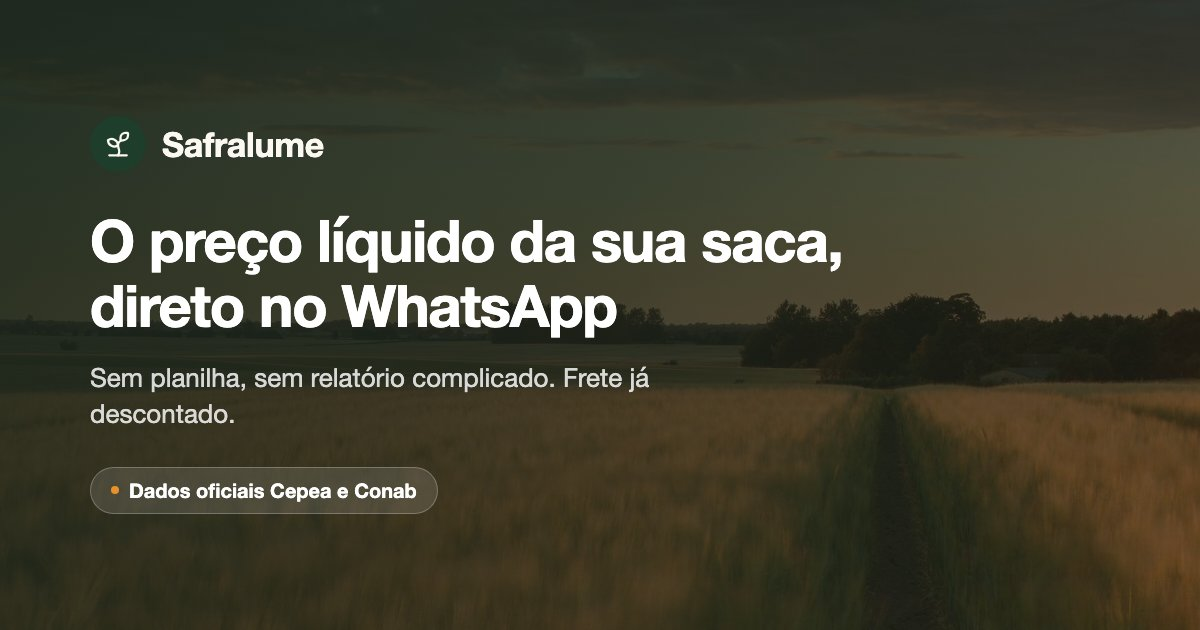
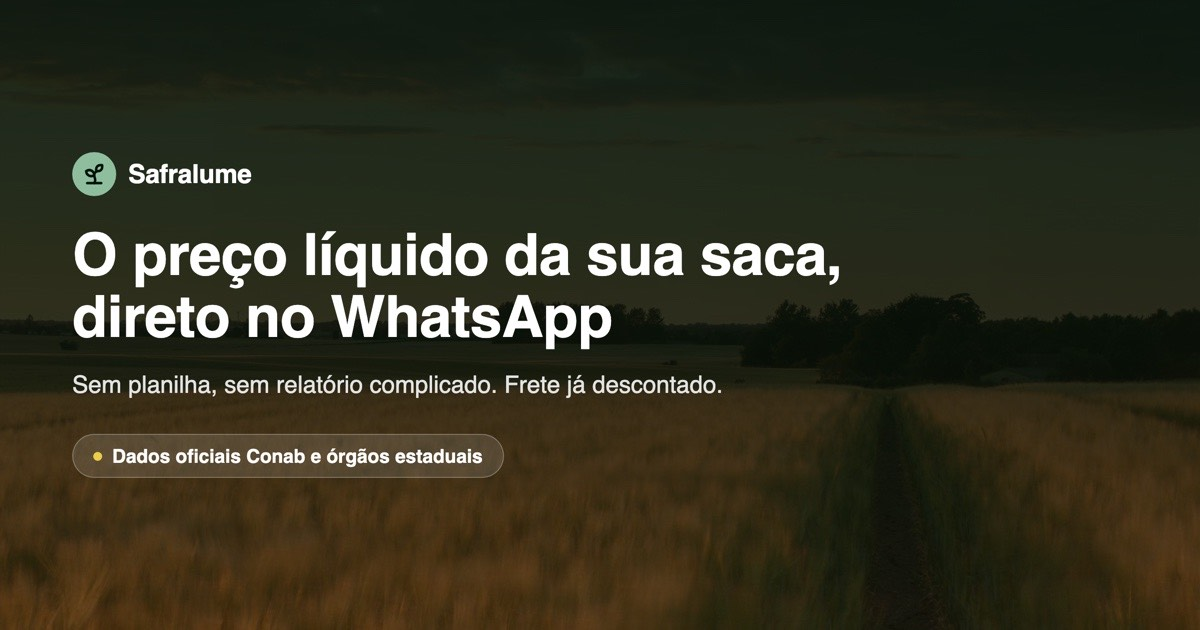
Melhora SEO: refaz og-image, adiciona schema de preço real
Achado auditando pra "ótimo SEO": a imagem de compartilhamento
(og-image.jpg — a que aparece quando o link é mandado no WhatsApp/
Twitter/etc) tinha o texto "Dados oficiais Cepea e Conab" desenhado
direto nos pixels — Cepea nunca foi integrada de verdade. Refeita do
zero (mesmo estilo visual, mesma foto), com o texto corrigido pra
"Conab e órgãos estaduais".

Adiciona um segundo JSON-LD (SoftwareApplication + Offer por plano)
com preço real dos 3 planos, puxado direto de pricingPlans em
config/site.ts — nunca hardcoded solto, pra nunca divergir do preço
real exibido na seção de Preços. Pode habilitar o Google mostrar
faixa de preço no resultado de busca.

diff --git a/src/routes/__root.tsx b/src/routes/__root.tsx
@@ -13,6 +13,7 @@ import appCss from "../styles.css?url";
 import { reportLovableError } from "../lib/lovable-error-reporting";
 import { AuthProvider } from "../lib/auth";
 import { Toaster } from "../components/ui/sonner";
+import { pricingPlans } from "../config/site";
 
 function NotFoundComponent() {
   return (
@@ -135,6 +136,30 @@ export const Route = createRootRouteWithContext<{ queryClient: QueryClient }>()(
           logo: "https://www.safralume.com.br/favicon.png",
           description:
             "Assistente via WhatsApp que traduz preços agrícolas oficiais (Conab e órgãos estaduais) em respostas com frete já descontado.",
+        }),
+      },
+      {
+        type: "application/ld+json",
+        // Preço real, extraído do mesmo pricingPlans que a seção de Preços
+        // da landing usa — nunca inventar/duplicar o número aqui, senão os
+        // dois lugares divergem no dia em que um plano mudar de preço.
+        children: JSON.stringify({
+          "@context": "https://schema.org",
+          "@type": "SoftwareApplication",
+          name: "Safralume",
+          applicationCategory: "BusinessApplication",
+          operatingSystem: "Web, WhatsApp",
+          url: "https://www.safralume.com.br",
+          description:
+            "Assistente via WhatsApp e painel web que traduz preços agrícolas oficiais em respostas com frete já descontado, para produtores rurais e cooperativas.",
+          offers: pricingPlans.map((plano) => ({
+            "@type": "Offer",
+            name: `Plano ${plano.name}`,
+            price: plano.price.toString(),
+            priceCurrency: "BRL",
+            description: plano.audience,
+            url: "https://www.safralume.com.br/#planos",
+          })),
         }),
       },
     ],
